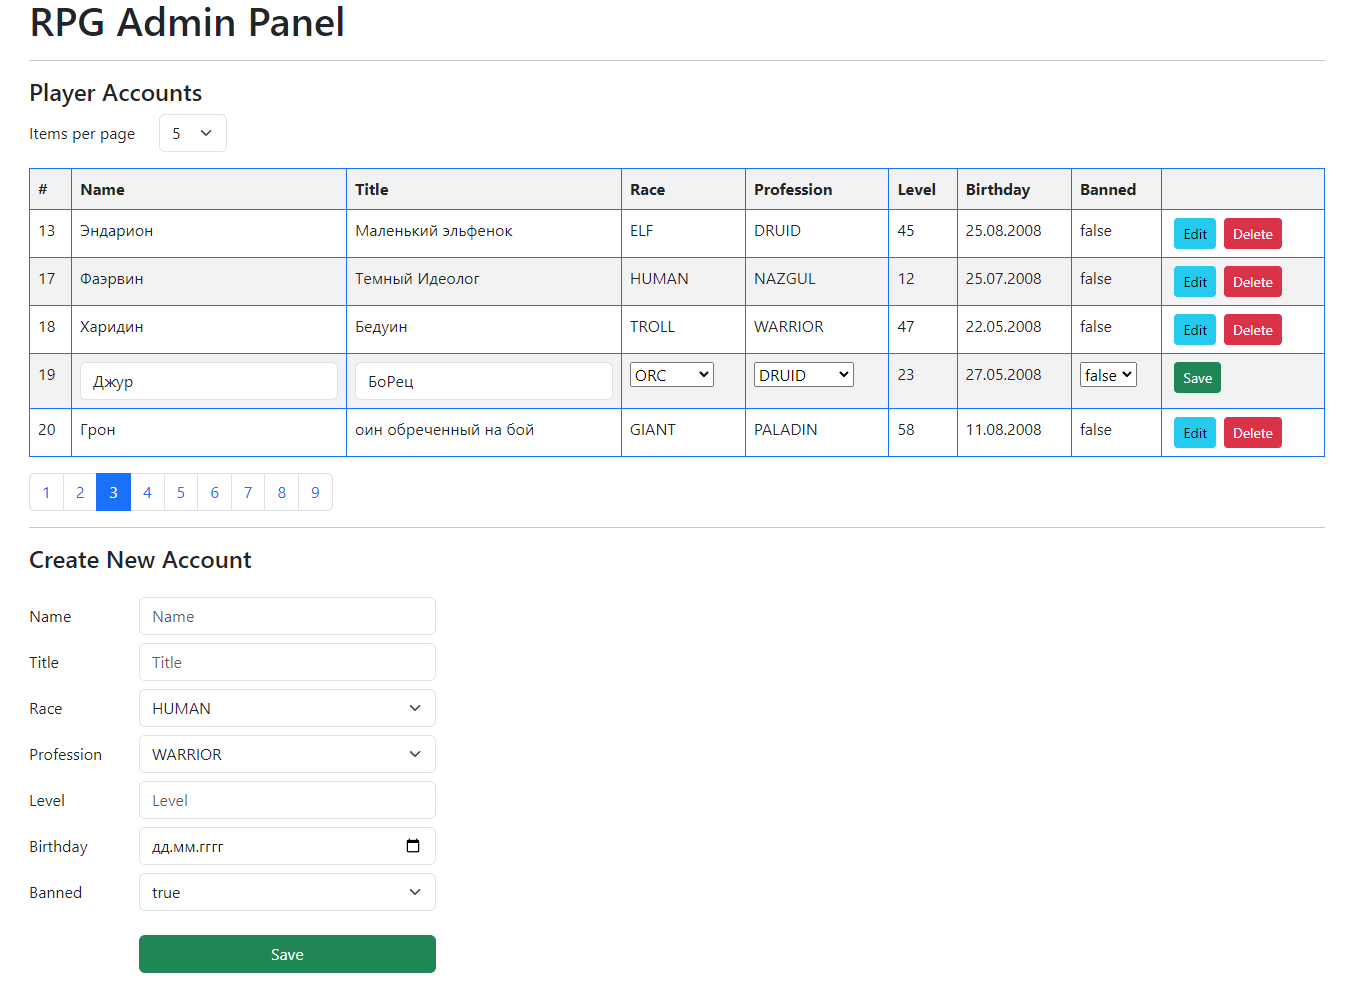
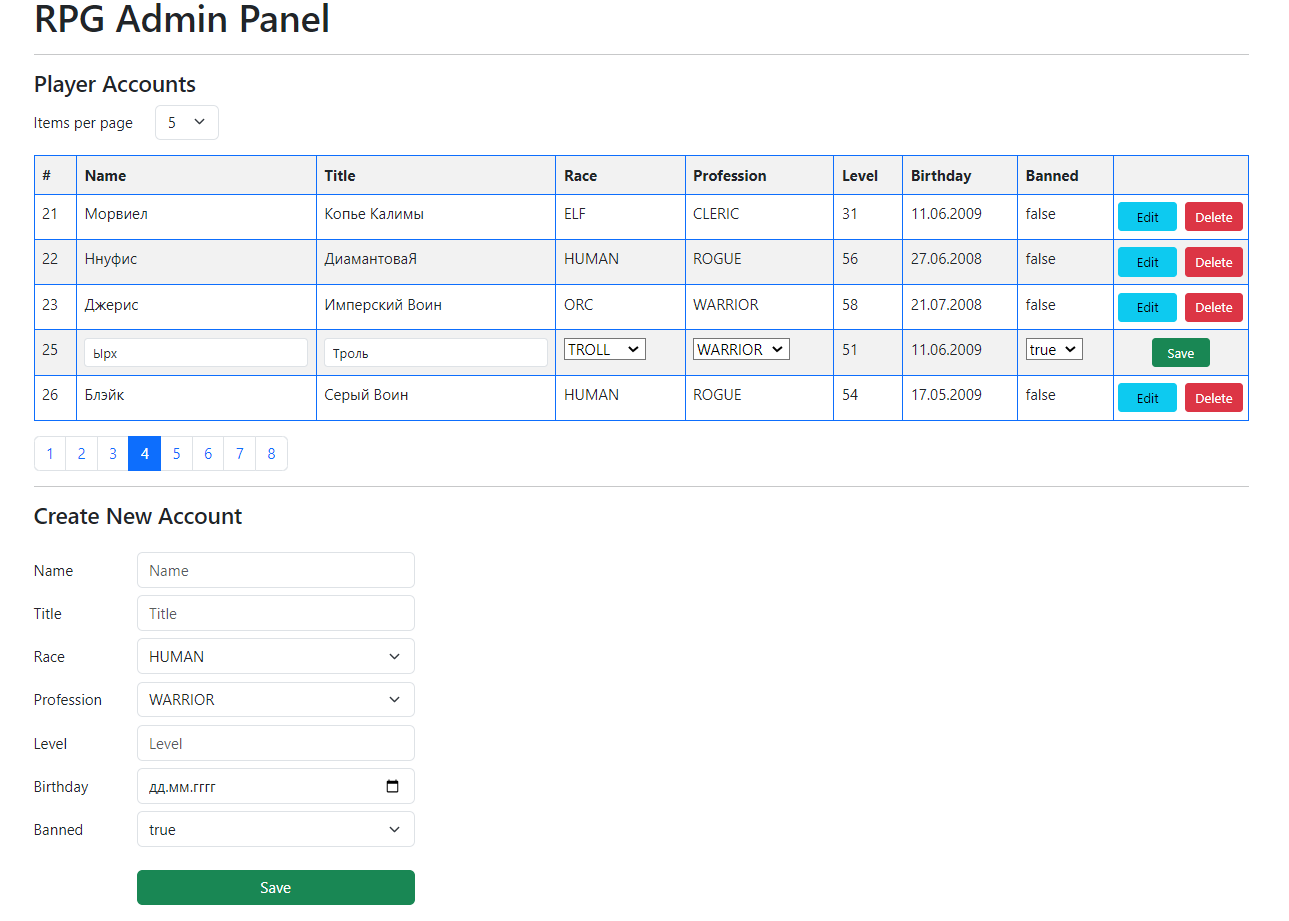
buttons fix

diff --git a/src/main/webapp/html/my.html b/src/main/webapp/html/my.html
@@ -196,12 +196,12 @@
                         '<td>' + item.level + '</td>' +
                         '<td>' + new Date(item.birthday).toLocaleDateString() + '</td>' +
                         '<td>' + item.banned + '</td>' +
-                        '<td>' +
-                        '<button id="edit_button_' + item.id + '" class="btn btn-info btn-sm mx-1" ' +
+                        '<td><div class="row justify-content-md-center">' +
+                        '<button id="edit_button_' + item.id + '" class="btn btn-info btn-sm mx-1 col-5" ' +
                         'onclick="editAccount(' + item.id + ')">Edit</button>' +
-                        '<button id="delete_button_' + item.id + '" class="btn btn-danger btn-sm mx-1" ' +
+                        '<button id="delete_button_' + item.id + '" class="btn btn-danger btn-sm mx-1 col-5" ' +
                         'onclick="deleteAccount(' + item.id + ')">Delete</button>' +
-                        '</td>'
+                        '</div></td>'
                     ).appendTo('#account_table');
                 });
             });
@@ -276,7 +276,7 @@
                 .attr('onclick', 'saveAccount(' + id + ')')
                 .html('Save');
 
-            let row = $(editButton).parent().parent();
+            let row = $(editButton).parent().parent().parent();
             let cells = row.children();
 
             makeTextCellEditable('name', cells[1], id);
@@ -362,7 +362,7 @@
 
         function makeTextCellEditable(idPrefix, cell, id) {
             cell.innerHTML = '<input id="' + idPrefix + '_input_'+ id +'" type="text" ' +
-                'value=' + cell.innerHTML +' class="form-control">';
+                'value=' + cell.innerHTML +' class="form-control form-control-sm">';
             return cell;
         }
 
